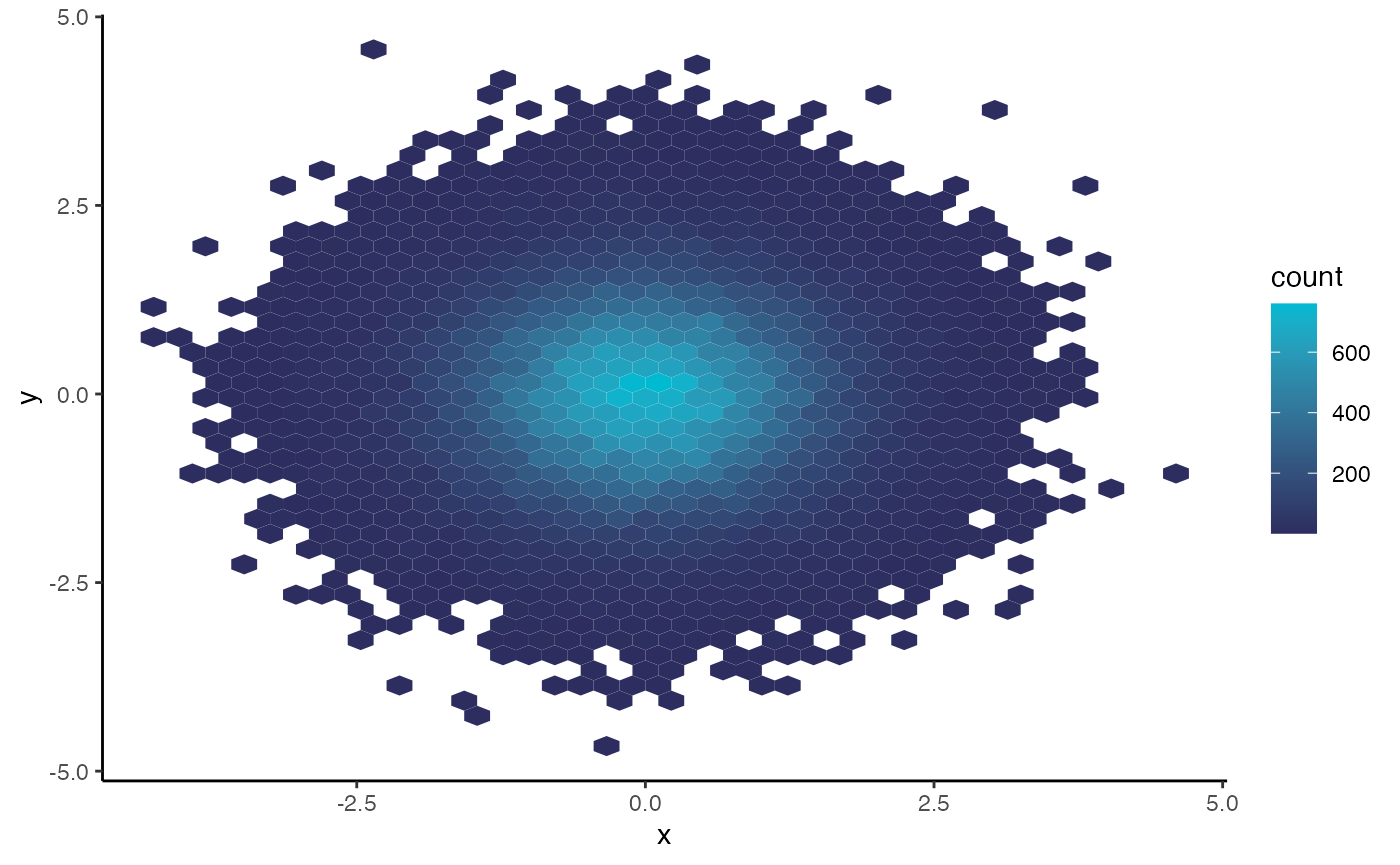
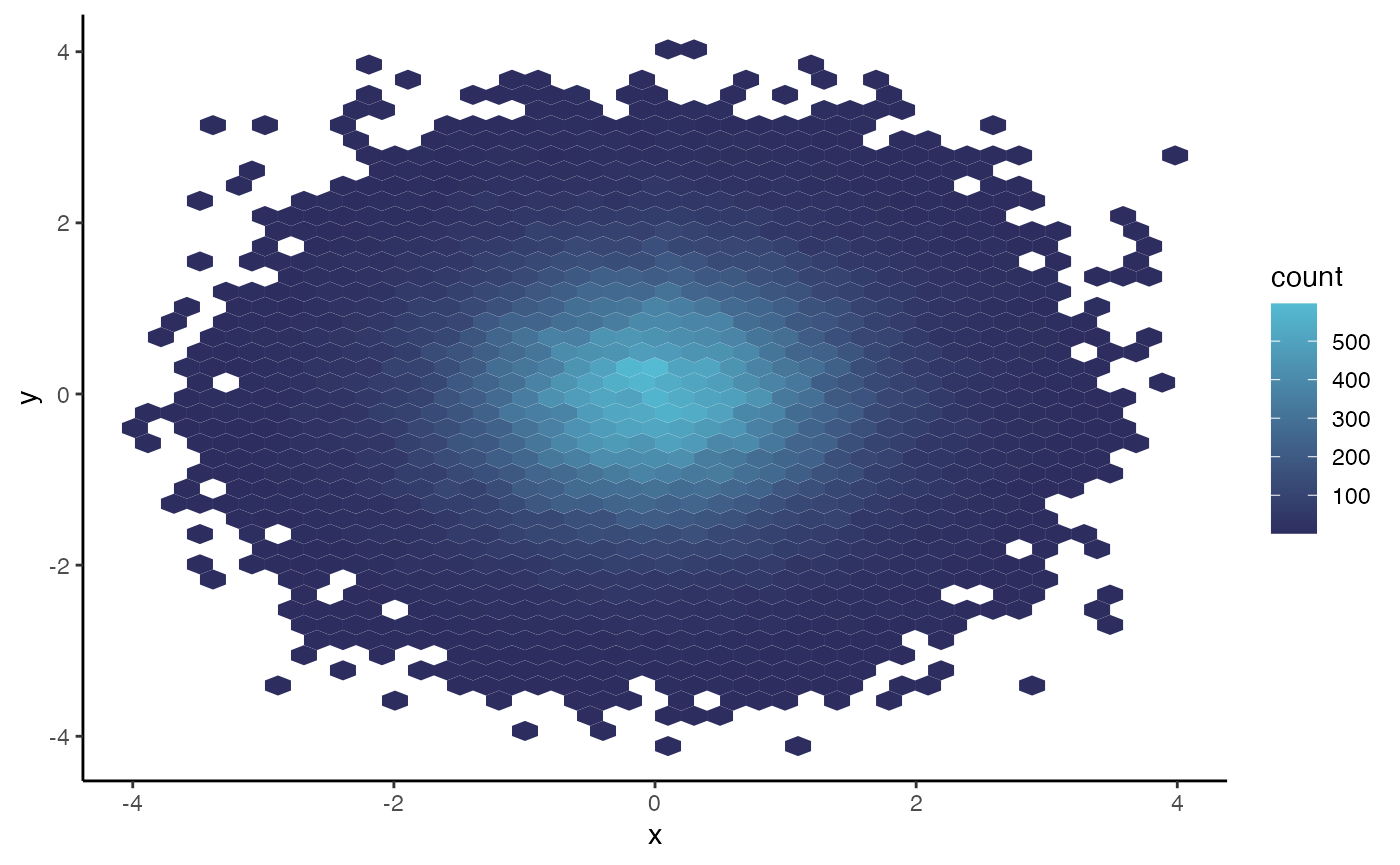
Fixing github pages

diff --git a/docs/index.html b/docs/index.html
@@ -89,7 +89,7 @@
 <p>These are then grouped into palettes that are also stored in functions:</p>
 <div class="sourceCode" id="cb3"><pre class="downlit sourceCode r">
 <code class="sourceCode R"><span><span class="fu"><a href="reference/hgu_palette.html">hgu_palette</a></span><span class="op">(</span><span class="op">)</span></span>
-<span><span class="co">#&gt; [1] "#2D2E5F" "#3A88A9" "#00BAD2"</span></span></code></pre></div>
+<span><span class="co">#&gt; [1] "#2D2E5F" "#3A88A9" "#54BBD2"</span></span></code></pre></div>
 <p>For users’ convenience, various functions have been written that set these colour values</p>
 <div class="sourceCode" id="cb4"><pre class="downlit sourceCode r">
 <code class="sourceCode R"><span><span class="va">plot_data</span> <span class="op">&lt;-</span> <span class="fu">tibble</span><span class="op">(</span></span>
@@ -106,16 +106,16 @@
 <p>A basic plot of this data would look like this</p>
 <div class="sourceCode" id="cb5"><pre class="downlit sourceCode r">
 <code class="sourceCode R"><span><span class="va">plot_data</span> <span class="op">%&gt;%</span></span>
-<span>  <span class="fu">ggplot</span><span class="op">(</span><span class="fu">aes</span><span class="op">(</span>x <span class="op">=</span> <span class="va">class</span>, y <span class="op">=</span> <span class="va">value</span>, fill <span class="op">=</span> <span class="va">class</span><span class="op">)</span><span class="op">)</span> <span class="op">+</span></span>
-<span>  <span class="fu">geom_col</span><span class="op">(</span><span class="op">)</span> <span class="op">+</span></span>
-<span>  <span class="fu">theme_classic</span><span class="op">(</span><span class="op">)</span></span></code></pre></div>
+<span>  <span class="fu"><a href="https://ggplot2.tidyverse.org/reference/ggplot.html" class="external-link">ggplot</a></span><span class="op">(</span><span class="fu"><a href="https://ggplot2.tidyverse.org/reference/aes.html" class="external-link">aes</a></span><span class="op">(</span>x <span class="op">=</span> <span class="va">class</span>, y <span class="op">=</span> <span class="va">value</span>, fill <span class="op">=</span> <span class="va">class</span><span class="op">)</span><span class="op">)</span> <span class="op">+</span></span>
+<span>  <span class="fu"><a href="https://ggplot2.tidyverse.org/reference/geom_bar.html" class="external-link">geom_col</a></span><span class="op">(</span><span class="op">)</span> <span class="op">+</span></span>
+<span>  <span class="fu"><a href="https://ggplot2.tidyverse.org/reference/ggtheme.html" class="external-link">theme_classic</a></span><span class="op">(</span><span class="op">)</span></span></code></pre></div>
 <p><img src="reference/figures/README-unnamed-chunk-5-1.png" width="100%"></p>
 <p>A layer can be added to change the fill of the boxes to match that of the MRC HGU powerpoint theme</p>
 <div class="sourceCode" id="cb6"><pre class="downlit sourceCode r">
 <code class="sourceCode R"><span><span class="va">plot_data</span> <span class="op">%&gt;%</span></span>
-<span>  <span class="fu">ggplot</span><span class="op">(</span><span class="fu">aes</span><span class="op">(</span>x <span class="op">=</span> <span class="va">class</span>, y <span class="op">=</span> <span class="va">value</span>, fill <span class="op">=</span> <span class="va">class</span><span class="op">)</span><span class="op">)</span> <span class="op">+</span></span>
-<span>  <span class="fu">geom_col</span><span class="op">(</span><span class="op">)</span> <span class="op">+</span></span>
-<span>  <span class="fu">theme_classic</span><span class="op">(</span><span class="op">)</span> <span class="op">+</span></span>
+<span>  <span class="fu"><a href="https://ggplot2.tidyverse.org/reference/ggplot.html" class="external-link">ggplot</a></span><span class="op">(</span><span class="fu"><a href="https://ggplot2.tidyverse.org/reference/aes.html" class="external-link">aes</a></span><span class="op">(</span>x <span class="op">=</span> <span class="va">class</span>, y <span class="op">=</span> <span class="va">value</span>, fill <span class="op">=</span> <span class="va">class</span><span class="op">)</span><span class="op">)</span> <span class="op">+</span></span>
+<span>  <span class="fu"><a href="https://ggplot2.tidyverse.org/reference/geom_bar.html" class="external-link">geom_col</a></span><span class="op">(</span><span class="op">)</span> <span class="op">+</span></span>
+<span>  <span class="fu"><a href="https://ggplot2.tidyverse.org/reference/ggtheme.html" class="external-link">theme_classic</a></span><span class="op">(</span><span class="op">)</span> <span class="op">+</span></span>
 <span>  <span class="fu"><a href="reference/scale_fill_hgu3.html">scale_fill_hgu3</a></span><span class="op">(</span><span class="op">)</span></span></code></pre></div>
 <p><img src="reference/figures/README-unnamed-chunk-6-1.png" width="100%"></p>
 </div>

diff --git a/docs/articles/HGUTheme.html b/docs/articles/HGUTheme.html
@@ -154,7 +154,7 @@ for text box text and shapes). Here are these three colours in hex:</p>
 <span><span class="co">#&gt; [1] "#3A88A9"</span></span>
 <span><span class="co"># MRC HGU Light Blue</span></span>
 <span><span class="fu"><a href="../reference/hgu_light.html">hgu_light</a></span><span class="op">(</span><span class="op">)</span></span>
-<span><span class="co">#&gt; [1] "#00BAD2"</span></span></code></pre></div>
+<span><span class="co">#&gt; [1] "#54BBD2"</span></span></code></pre></div>
 <p>These can be useful for quickly colouring <code>ggplot2</code> plots,
 lets make a quick example. A fairly common plot you might make as a
 scientist is a scatter plot with a trend and then putting a linear
@@ -166,18 +166,18 @@ regression line on top. First we can make some fake data</p>
 <span><span class="op">)</span></span>
 <span><span class="va">plot_data</span></span>
 <span><span class="co">#&gt; <span style="color: #949494;"># A tibble: 100 × 2</span></span></span>
-<span><span class="co">#&gt;        x       y</span></span>
-<span><span class="co">#&gt;    <span style="color: #949494; font-style: italic;">&lt;dbl&gt;</span>   <span style="color: #949494; font-style: italic;">&lt;dbl&gt;</span></span></span>
-<span><span class="co">#&gt; <span style="color: #BCBCBC;"> 1</span> 0.390  0.578 </span></span>
-<span><span class="co">#&gt; <span style="color: #BCBCBC;"> 2</span> 0.550  0.316 </span></span>
-<span><span class="co">#&gt; <span style="color: #BCBCBC;"> 3</span> 0.983  1.07  </span></span>
-<span><span class="co">#&gt; <span style="color: #BCBCBC;"> 4</span> 0.909  0.931 </span></span>
-<span><span class="co">#&gt; <span style="color: #BCBCBC;"> 5</span> 0.453  0.187 </span></span>
-<span><span class="co">#&gt; <span style="color: #BCBCBC;"> 6</span> 0.261  0.284 </span></span>
-<span><span class="co">#&gt; <span style="color: #BCBCBC;"> 7</span> 0.138 -<span style="color: #BB0000;">0.010</span><span style="color: #BB0000; text-decoration: underline;">5</span></span></span>
-<span><span class="co">#&gt; <span style="color: #BCBCBC;"> 8</span> 0.227  0.228 </span></span>
-<span><span class="co">#&gt; <span style="color: #BCBCBC;"> 9</span> 0.620  0.495 </span></span>
-<span><span class="co">#&gt; <span style="color: #BCBCBC;">10</span> 0.146  0.051<span style="text-decoration: underline;">6</span></span></span>
+<span><span class="co">#&gt;         x       y</span></span>
+<span><span class="co">#&gt;     <span style="color: #949494; font-style: italic;">&lt;dbl&gt;</span>   <span style="color: #949494; font-style: italic;">&lt;dbl&gt;</span></span></span>
+<span><span class="co">#&gt; <span style="color: #BCBCBC;"> 1</span> 0.634   0.632 </span></span>
+<span><span class="co">#&gt; <span style="color: #BCBCBC;"> 2</span> 0.189   0.616 </span></span>
+<span><span class="co">#&gt; <span style="color: #BCBCBC;"> 3</span> 0.933   0.839 </span></span>
+<span><span class="co">#&gt; <span style="color: #BCBCBC;"> 4</span> 0.845   0.799 </span></span>
+<span><span class="co">#&gt; <span style="color: #BCBCBC;"> 5</span> 0.257   0.357 </span></span>
+<span><span class="co">#&gt; <span style="color: #BCBCBC;"> 6</span> 0.630   0.698 </span></span>
+<span><span class="co">#&gt; <span style="color: #BCBCBC;"> 7</span> 0.977   1.18  </span></span>
+<span><span class="co">#&gt; <span style="color: #BCBCBC;"> 8</span> 0.074<span style="text-decoration: underline;">3</span> -<span style="color: #BB0000;">0.011</span><span style="color: #BB0000; text-decoration: underline;">1</span></span></span>
+<span><span class="co">#&gt; <span style="color: #BCBCBC;"> 9</span> 0.195   0.167 </span></span>
+<span><span class="co">#&gt; <span style="color: #BCBCBC;">10</span> 0.355   0.485 </span></span>
 <span><span class="co">#&gt; <span style="color: #949494;"># … with 90 more rows</span></span></span></code></pre></div>
 <p>Then we can make a simple plot that you might make for a
 presentation:</p>

diff --git a/docs/reference/hgu_palette.html b/docs/reference/hgu_palette.html
@@ -68,11 +68,13 @@
     <h2 id="ref-examples">Examples<a class="anchor" aria-label="anchor" href="#ref-examples"></a></h2>
     <div class="sourceCode"><pre class="sourceCode r"><code><span class="r-in"><span><span class="va">colour_palette</span> <span class="op">&lt;-</span> <span class="va">hgu_palette</span></span></span>
 <span class="r-in"><span><span class="va">colour_palette</span></span></span>
-<span class="r-out co"><span class="r-pr">#&gt;</span> function () </span>
-<span class="r-out co"><span class="r-pr">#&gt;</span> {</span>
-<span class="r-out co"><span class="r-pr">#&gt;</span>     c(hgu_dark(), hgu_mid(), hgu_light())</span>
+<span class="r-out co"><span class="r-pr">#&gt;</span> function() {</span>
+<span class="r-out co"><span class="r-pr">#&gt;</span>   c(</span>
+<span class="r-out co"><span class="r-pr">#&gt;</span>     hgu_dark(),</span>
+<span class="r-out co"><span class="r-pr">#&gt;</span>     hgu_mid(),</span>
+<span class="r-out co"><span class="r-pr">#&gt;</span>     hgu_light()</span>
+<span class="r-out co"><span class="r-pr">#&gt;</span>   )</span>
 <span class="r-out co"><span class="r-pr">#&gt;</span> }</span>
-<span class="r-out co"><span class="r-pr">#&gt;</span> &lt;bytecode: 0x7f89dcf6b640&gt;</span>
 <span class="r-out co"><span class="r-pr">#&gt;</span> &lt;environment: namespace:HGUTheme&gt;</span>
 </code></pre></div>
     </div>

diff --git a/README.md b/README.md
@@ -51,7 +51,7 @@ These are then grouped into palettes that are also stored in functions:
 
 ``` r
 hgu_palette()
-#> [1] "#2D2E5F" "#3A88A9" "#00BAD2"
+#> [1] "#2D2E5F" "#3A88A9" "#54BBD2"
 ```
 
 For users’ convenience, various functions have been written that set
